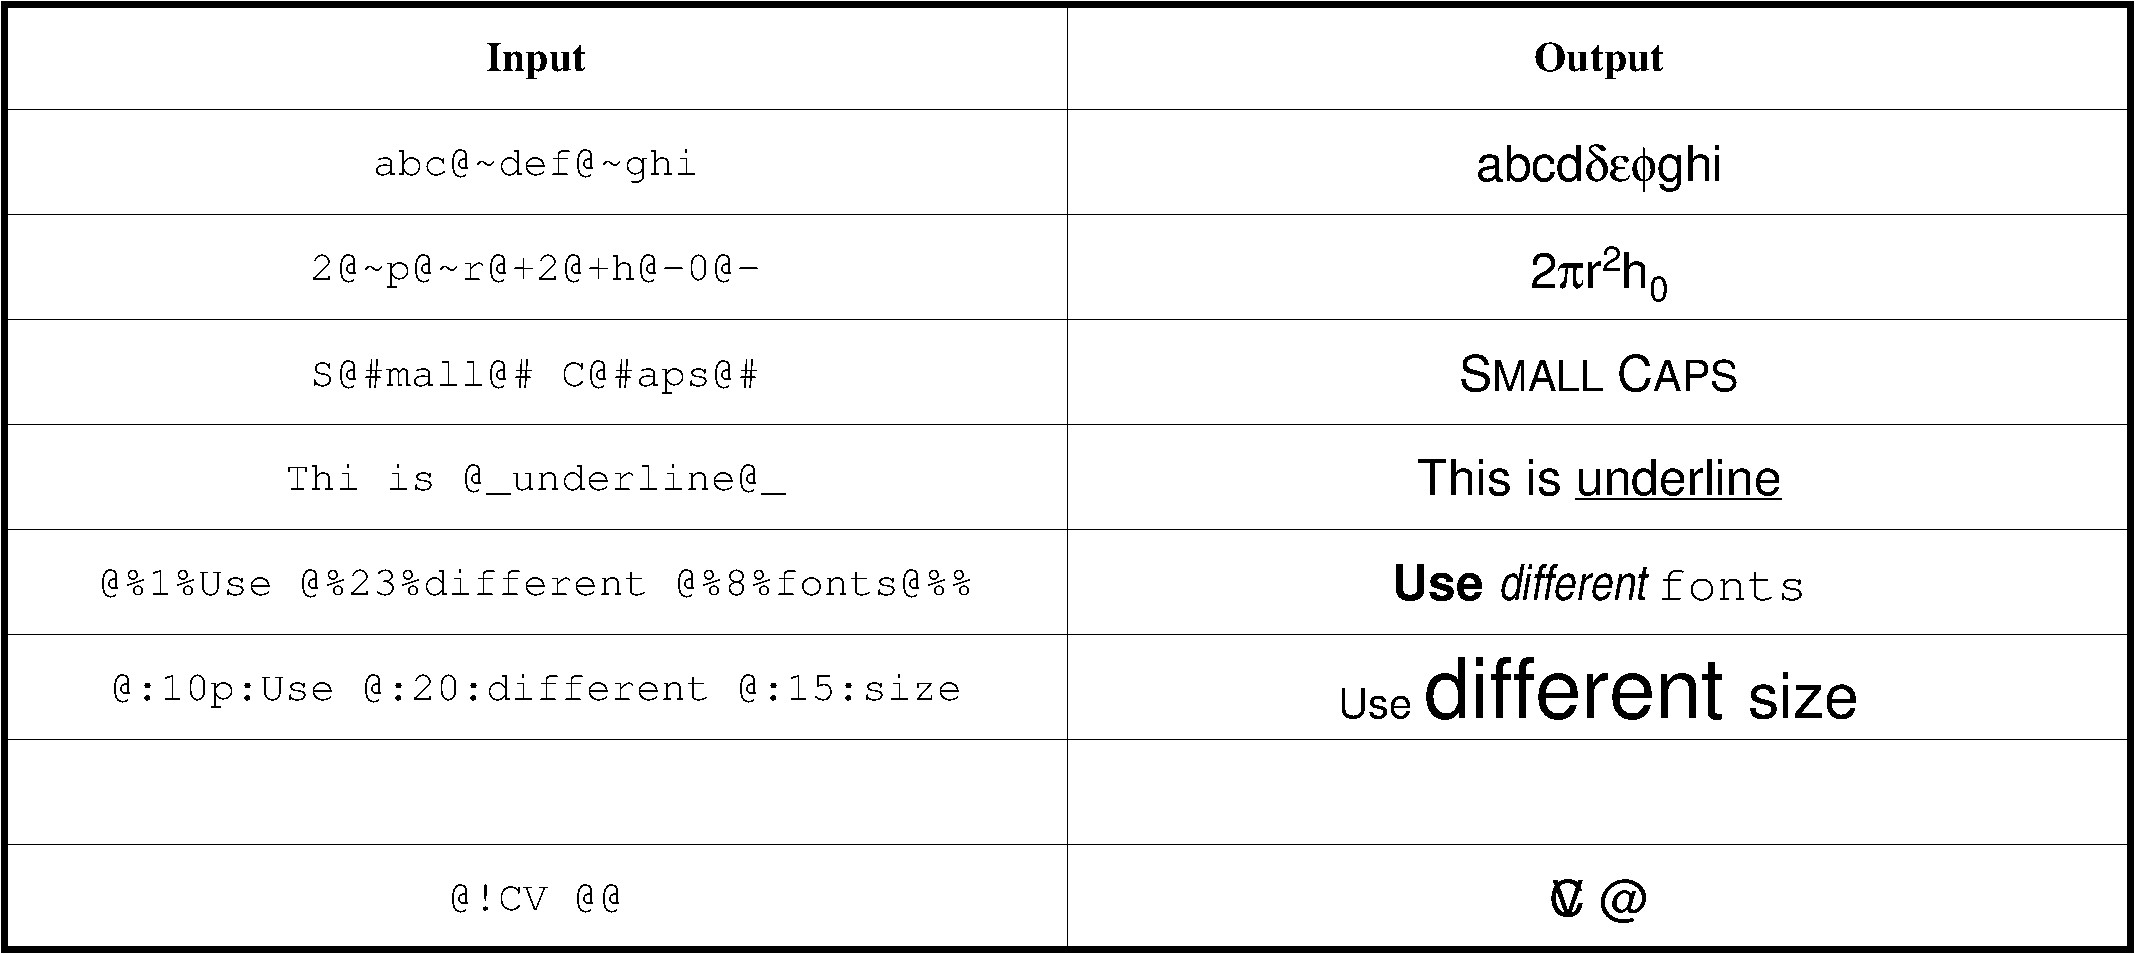
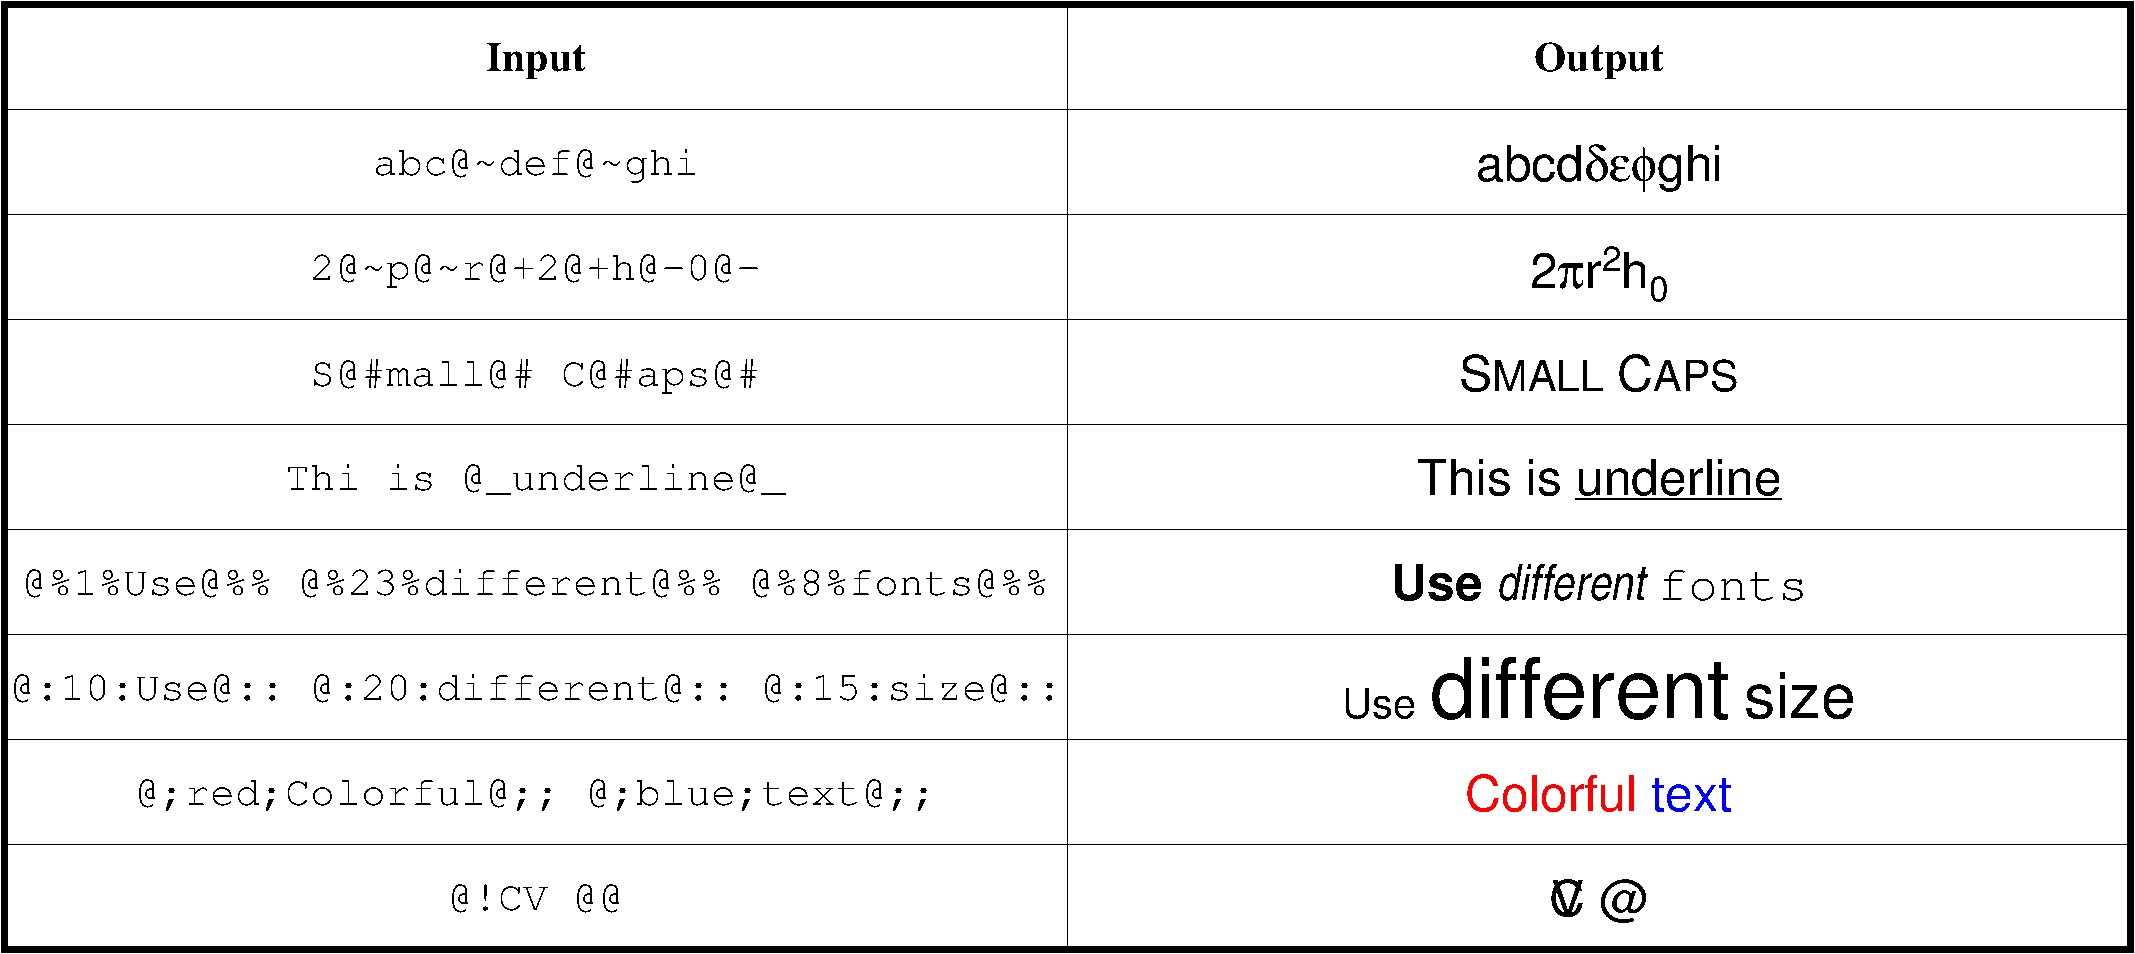
update escape characters

diff --git a/source/character-escape.rst b/source/character-escape.rst
@@ -1,12 +1,12 @@
-转义字符
+转义序列
 ========
 
 :Create Date: 2014-11-15
-:Last Updated: 2014-11-15
+:Last Updated: 2014-11-16
 
 前面已经介绍了如何设置字体属性以及如何输出特殊字符，但是这还不够，无法实现上标、下标，无法在一个字符串内随意切换字体和颜色。由此，GMT引入了转义字符，给文本加入了更丰富的效果。
 
-在C语言中，转义字符是\ ``\``\ ；在GMT中，转义字符是\ ``@``\ 。GMT可以识别的转义字符在下表列出：
+在C语言中，转义字符是\ ``\``\ ；在GMT中，转义字符是\ ``@``\ 。转义字符与一般字符合在一起构成了转义序列。GMT可以识别的转义字符在下表列出：
 
 .. _tbl-secape:
 
@@ -57,7 +57,7 @@
 --------
 
 .. figure:: /images/escape_examples.*
-   :width: 500 px
+   :width: 600 px
    :align: center
 
    GMT转义序列示例
@@ -67,3 +67,4 @@
 
 #. 上标/下标不支持嵌套，即只支持一层上标/下标
 #. :doc:`pstext`\ 命令中有选项可以在文本周围加上矩形框，该选项对转义序列无效
+#. 转义序列需要成对存在，与括号类似，开启转义之后必须关闭转义；

diff --git a/source/gmt-basics.rst b/source/gmt-basics.rst
@@ -9,4 +9,5 @@
    fill
    text
    more-characters
+   character-escape
 
